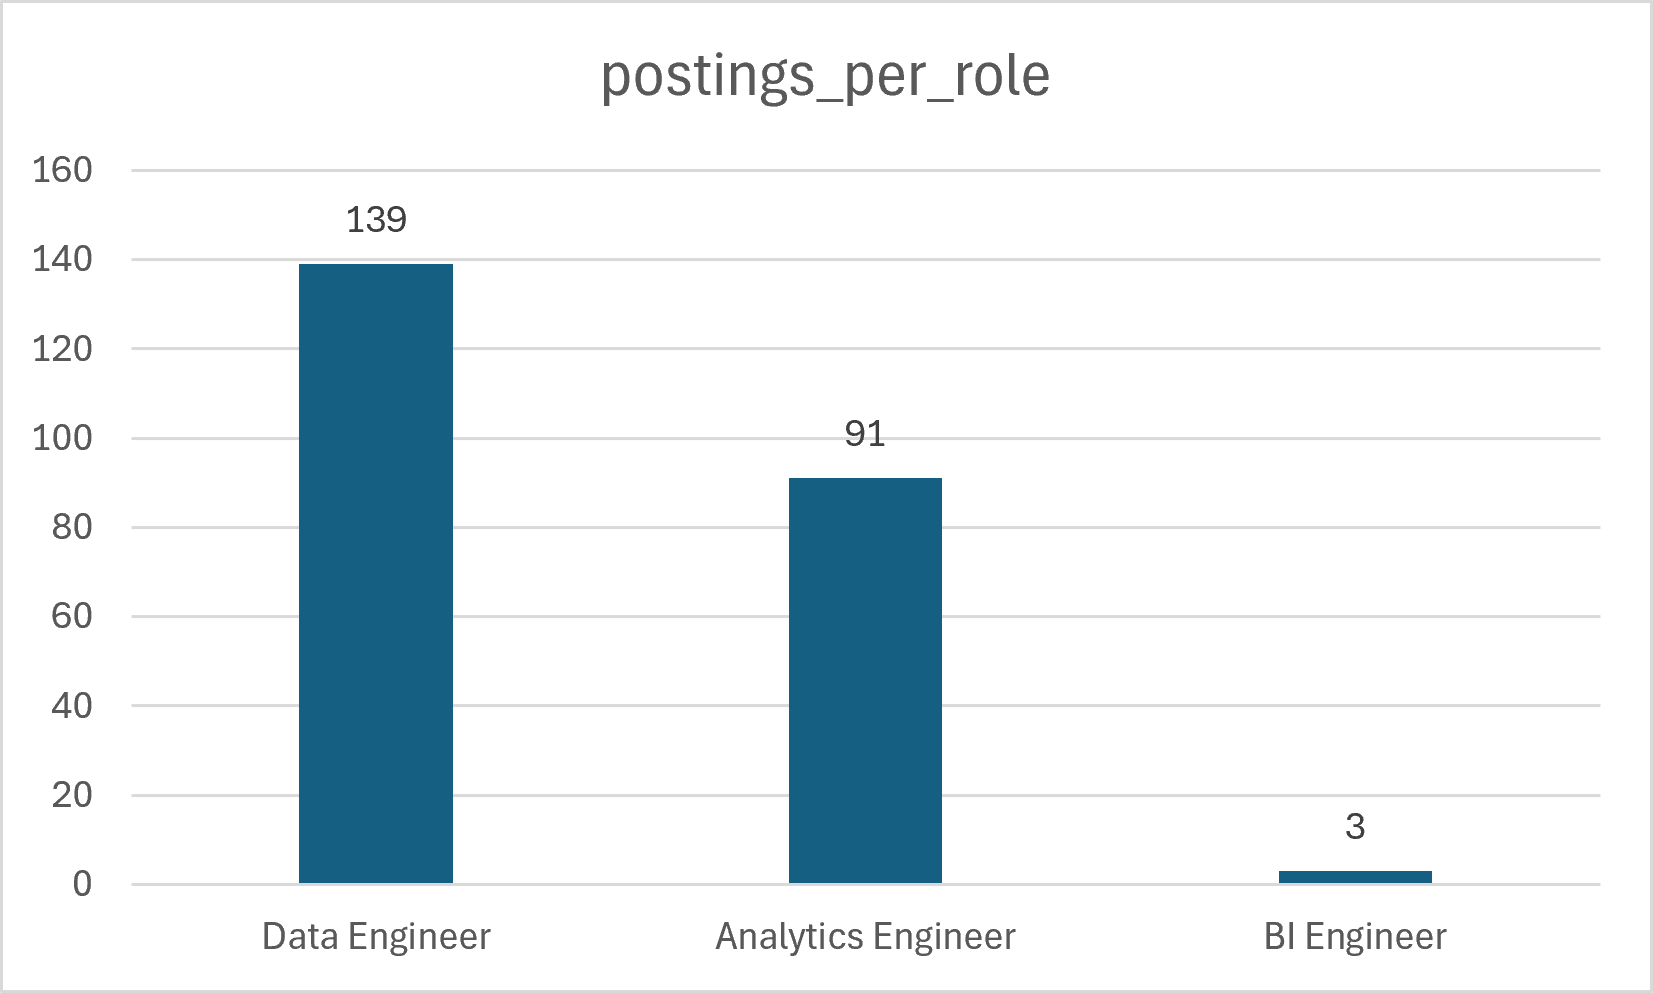
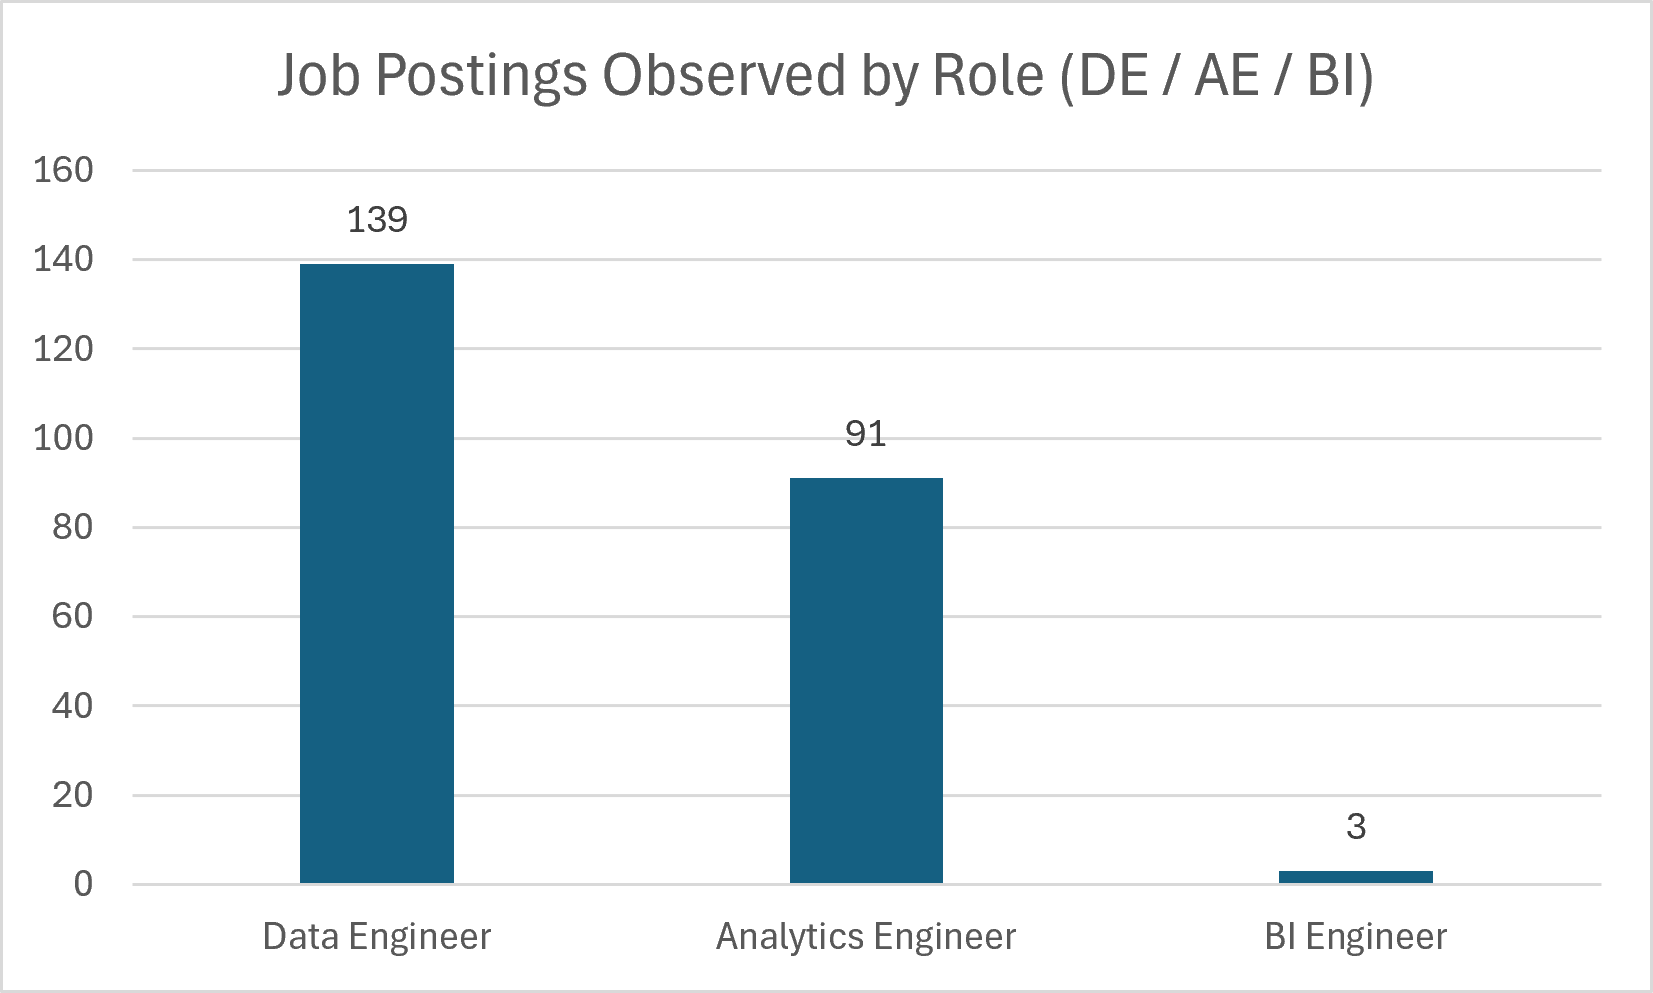
Update chart name

diff --git a/README.md b/README.md
@@ -143,7 +143,9 @@ fact grain is one row per posting *per scrape*, not per posting.
 ## Analyses
 
 - **Role Analysis** — postings by role, including **Total Observed Postings**:
-  distinct postings captured across all snapshot runs, including inactive ones
+  distinct postings captured across all snapshot runs, including inactive ones *(caveat: role classification is pattern-matched on job_title; titles
+  phrased outside these patterns — e.g. "Data Platform Engineer," "Software
+  Engineer, Data" — are excluded from the three tracked roles)*
 ![Number of postings by Role](docs/key_analysis/postings_per_role.png)
 - **Skill Demand** — most-requested skills across postings *(caveat: BRIDGE_JOB_SKILLS is regex-matched against the `skill_lookup` seed (a manually curated skill taxonomy), so this measures "% of postings where the taxonomy detected the skill," not "% that truly require it" — descriptions phrased outside the match patterns are undercounted, and the taxonomy requires periodic updates as new technologies and synonyms
   emerge)*
